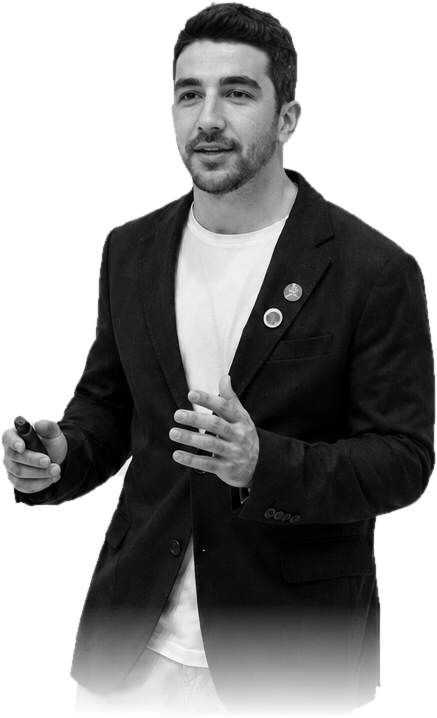
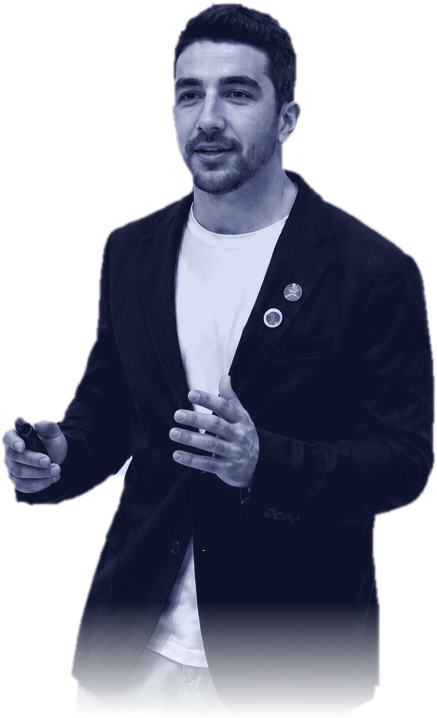
feat: cinematic cool-duotone hero portrait, better balanced
- Bake a cool indigo->soft-white duotone into the portrait so it belongs to the
  nebula instead of reading as a flat grey cutout (CSS grayscale removed).
- Smooth the left mask fade and darken the shirt tone, removing the horizontal
  seam/streak that bled toward the centre.
- Move the figure inward (right 16%) and raise opacity so the empty middle reads
  as intentional negative space rather than a void.

diff --git a/src/components/HeroSection.tsx b/src/components/HeroSection.tsx
@@ -83,14 +83,14 @@ export function HeroSection() {
                     <img
                         src="/michael-portrait.png"
                         alt=""
-                        className="absolute select-none h-[82%] md:h-[104%] w-auto max-w-none right-[4%] md:right-[12%] top-[64%] -translate-y-1/2"
+                        className="absolute select-none h-[82%] md:h-[104%] w-auto max-w-none right-[4%] md:right-[16%] top-[64%] -translate-y-1/2"
                         style={{
-                            opacity: 0.3,
-                            filter: "grayscale(1) contrast(1.05)",
+                            opacity: 0.34,
+                            filter: "contrast(1.03) brightness(1.03)",
                             WebkitMaskImage:
-                                "linear-gradient(to right, transparent 0%, rgba(0,0,0,0.5) 40%, #000 78%), linear-gradient(to bottom, #000 82%, transparent 100%)",
+                                "linear-gradient(to right, transparent 0%, rgba(0,0,0,0.35) 34%, #000 82%), linear-gradient(to bottom, #000 84%, transparent 100%)",
                             maskImage:
-                                "linear-gradient(to right, transparent 0%, rgba(0,0,0,0.5) 40%, #000 78%), linear-gradient(to bottom, #000 82%, transparent 100%)",
+                                "linear-gradient(to right, transparent 0%, rgba(0,0,0,0.35) 34%, #000 82%), linear-gradient(to bottom, #000 84%, transparent 100%)",
                             WebkitMaskComposite: "source-in",
                             maskComposite: "intersect",
                         }}
